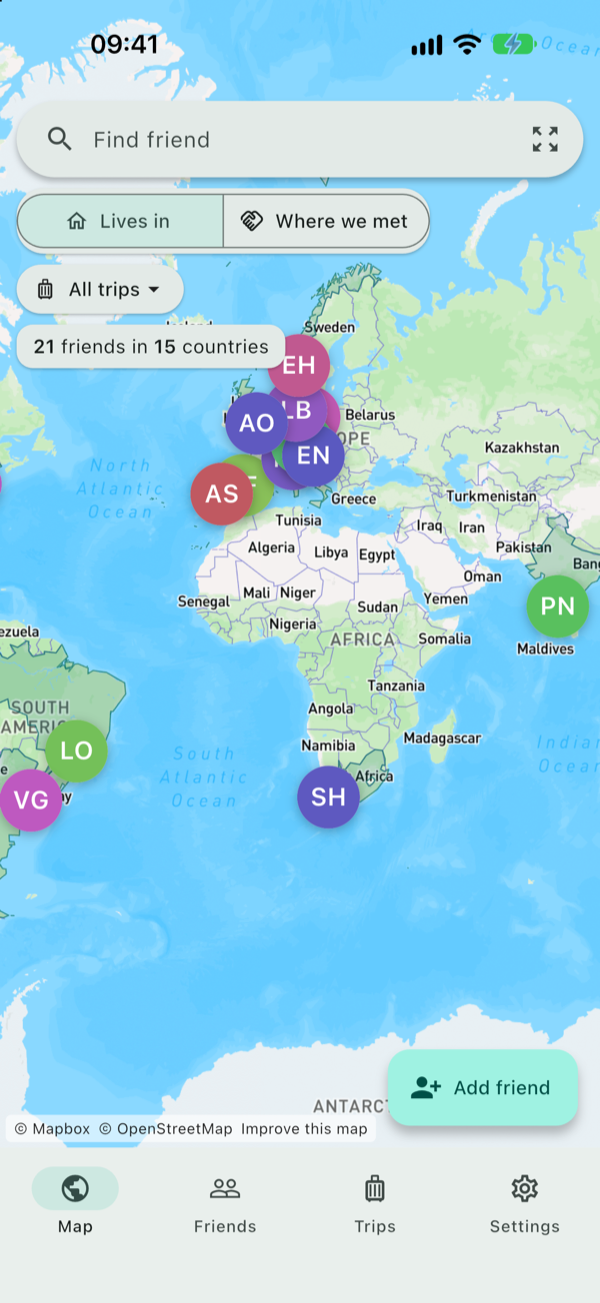
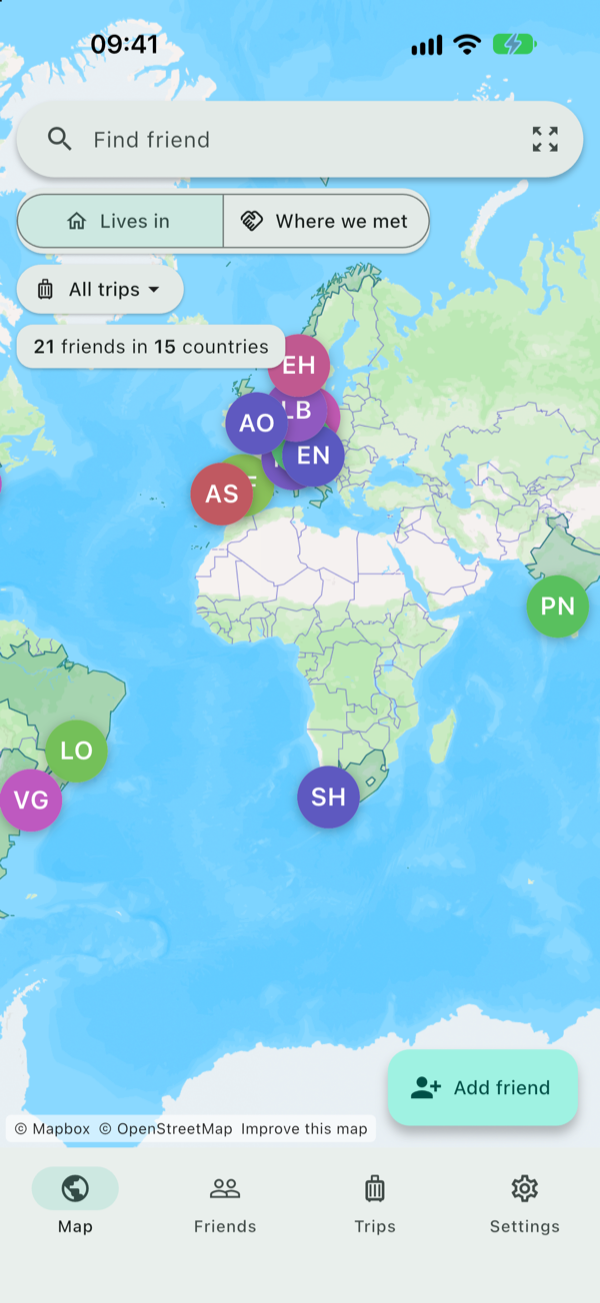
Map screenshot without country names

diff --git a/stay-in-touch-with-friends-from-abroad.html b/stay-in-touch-with-friends-from-abroad.html
@@ -11,7 +11,7 @@
   <meta property="og:title" content="How to stay in touch with friends you made abroad" />
   <meta property="og:description" content="How exchange students, expats and travelers can stay in touch with friends from abroad after going home: habits, contact details and keeping track of where everyone lives." />
   <meta property="og:url" content="https://met-app.github.io/stay-in-touch-with-friends-from-abroad.html" />
-  <meta property="og:image" content="https://met-app.github.io/assets/og.png?v=2026-11-13" />
+  <meta property="og:image" content="https://met-app.github.io/assets/og.png?v=2026-11-14" />
   <meta name="twitter:card" content="summary_large_image" />
   <meta name="apple-itunes-app" content="app-id=6829076218" />
   <link rel="icon" href="assets/logo.png" />
@@ -35,7 +35,7 @@
       "logo": "https://met-app.github.io/assets/logo.png"
     },
     "mainEntityOfPage": "https://met-app.github.io/stay-in-touch-with-friends-from-abroad.html",
-    "image": "https://met-app.github.io/assets/og.png?v=2026-11-13"
+    "image": "https://met-app.github.io/assets/og.png?v=2026-11-14"
   },
   {
     "@context": "https://schema.org",

diff --git a/keep-track-of-friends-around-the-world.html b/keep-track-of-friends-around-the-world.html
@@ -11,7 +11,7 @@
   <meta property="og:title" content="How to keep track of friends who live all over the world" />
   <meta property="og:description" content="Tips for keeping track of international friends in different countries and time zones: organizing them by place, remembering birthdays and staying in touch." />
   <meta property="og:url" content="https://met-app.github.io/keep-track-of-friends-around-the-world.html" />
-  <meta property="og:image" content="https://met-app.github.io/assets/og.png?v=2026-11-13" />
+  <meta property="og:image" content="https://met-app.github.io/assets/og.png?v=2026-11-14" />
   <meta name="twitter:card" content="summary_large_image" />
   <meta name="apple-itunes-app" content="app-id=6829076218" />
   <link rel="icon" href="assets/logo.png" />
@@ -35,7 +35,7 @@
       "logo": "https://met-app.github.io/assets/logo.png"
     },
     "mainEntityOfPage": "https://met-app.github.io/keep-track-of-friends-around-the-world.html",
-    "image": "https://met-app.github.io/assets/og.png?v=2026-11-13"
+    "image": "https://met-app.github.io/assets/og.png?v=2026-11-14"
   },
   {
     "@context": "https://schema.org",

diff --git a/remember-people-you-meet-while-traveling.html b/remember-people-you-meet-while-traveling.html
@@ -11,7 +11,7 @@
   <meta property="og:title" content="How to remember the people you meet while traveling" />
   <meta property="og:description" content="Practical ways to remember the people you meet on trips, at hostels and festivals: what to write down, when to do it, and how to keep it all on a map." />
   <meta property="og:url" content="https://met-app.github.io/remember-people-you-meet-while-traveling.html" />
-  <meta property="og:image" content="https://met-app.github.io/assets/og.png?v=2026-11-13" />
+  <meta property="og:image" content="https://met-app.github.io/assets/og.png?v=2026-11-14" />
   <meta name="twitter:card" content="summary_large_image" />
   <meta name="apple-itunes-app" content="app-id=6829076218" />
   <link rel="icon" href="assets/logo.png" />
@@ -35,7 +35,7 @@
       "logo": "https://met-app.github.io/assets/logo.png"
     },
     "mainEntityOfPage": "https://met-app.github.io/remember-people-you-meet-while-traveling.html",
-    "image": "https://met-app.github.io/assets/og.png?v=2026-11-13"
+    "image": "https://met-app.github.io/assets/og.png?v=2026-11-14"
   },
   {
     "@context": "https://schema.org",

diff --git a/map-of-where-your-friends-live.html b/map-of-where-your-friends-live.html
@@ -11,7 +11,7 @@
   <meta property="og:title" content="How to make a map of where all your friends live" />
   <meta property="og:description" content="Ways to make a map of your friends around the world, from spreadsheets and Google My Maps to an app built for it, and what to include for each friend." />
   <meta property="og:url" content="https://met-app.github.io/map-of-where-your-friends-live.html" />
-  <meta property="og:image" content="https://met-app.github.io/assets/og.png?v=2026-11-13" />
+  <meta property="og:image" content="https://met-app.github.io/assets/og.png?v=2026-11-14" />
   <meta name="twitter:card" content="summary_large_image" />
   <meta name="apple-itunes-app" content="app-id=6829076218" />
   <link rel="icon" href="assets/logo.png" />
@@ -35,7 +35,7 @@
       "logo": "https://met-app.github.io/assets/logo.png"
     },
     "mainEntityOfPage": "https://met-app.github.io/map-of-where-your-friends-live.html",
-    "image": "https://met-app.github.io/assets/og.png?v=2026-11-13"
+    "image": "https://met-app.github.io/assets/og.png?v=2026-11-14"
   },
   {
     "@context": "https://schema.org",

diff --git a/index.html b/index.html
@@ -14,7 +14,7 @@
   <meta property="og:title" content="MET - Your friends around the world" />
   <meta property="og:description" content="See where in the world your friends live. Pin friends on a map, remember where you met, and keep their details in one place." />
   <meta property="og:url" content="https://met-app.github.io/" />
-  <meta property="og:image" content="https://met-app.github.io/assets/og.png?v=2026-11-13" />
+  <meta property="og:image" content="https://met-app.github.io/assets/og.png?v=2026-11-14" />
   <meta name="twitter:card" content="summary_large_image" />
   <meta name="apple-itunes-app" content="app-id=6829076218" />
   <script type="application/ld+json">
@@ -99,7 +99,7 @@
         <p class="badge-note">Free on iPhone and Android.</p>
       </div>
       <div class="phone">
-        <img src="assets/hero.png?v=2026-11-13" alt="MET showing a world map with friends pinned in the cities they live in" />
+        <img src="assets/hero.png?v=2026-11-14" alt="MET showing a world map with friends pinned in the cities they live in" />
       </div>
     </div>
   </section>

diff --git a/features.html b/features.html
@@ -11,7 +11,7 @@
   <meta property="og:title" content="MET features: a map of your friends around the world" />
   <meta property="og:description" content="Everything MET does: a world map of where your friends live, trips, profiles with how you met, their local time, birthdays and contacts, QR code profiles, search, and iCloud or Google Drive sync." />
   <meta property="og:url" content="https://met-app.github.io/features.html" />
-  <meta property="og:image" content="https://met-app.github.io/assets/og.png?v=2026-11-13" />
+  <meta property="og:image" content="https://met-app.github.io/assets/og.png?v=2026-11-14" />
   <meta name="twitter:card" content="summary_large_image" />
   <meta name="apple-itunes-app" content="app-id=6829076218" />
   <link rel="icon" href="assets/logo.png" />

diff --git a/guides.html b/guides.html
@@ -11,7 +11,7 @@
   <meta property="og:title" content="MET guides: keeping track of friends around the world" />
   <meta property="og:description" content="Guides on remembering people you meet while traveling, mapping where your friends live and staying in touch with friends abroad." />
   <meta property="og:url" content="https://met-app.github.io/guides.html" />
-  <meta property="og:image" content="https://met-app.github.io/assets/og.png?v=2026-11-13" />
+  <meta property="og:image" content="https://met-app.github.io/assets/og.png?v=2026-11-14" />
   <meta name="twitter:card" content="summary_large_image" />
   <meta name="apple-itunes-app" content="app-id=6829076218" />
   <link rel="icon" href="assets/logo.png" />

diff --git a/faq.html b/faq.html
@@ -11,7 +11,7 @@
   <meta property="og:title" content="MET FAQ: questions about the friends map app" />
   <meta property="og:description" content="Answers about MET: is it free, does it track location, how QR code profiles work, where data is stored, sync, backups and Premium." />
   <meta property="og:url" content="https://met-app.github.io/faq.html" />
-  <meta property="og:image" content="https://met-app.github.io/assets/og.png?v=2026-11-13" />
+  <meta property="og:image" content="https://met-app.github.io/assets/og.png?v=2026-11-14" />
   <meta name="twitter:card" content="summary_large_image" />
   <meta name="apple-itunes-app" content="app-id=6829076218" />
   <link rel="icon" href="assets/logo.png" />
